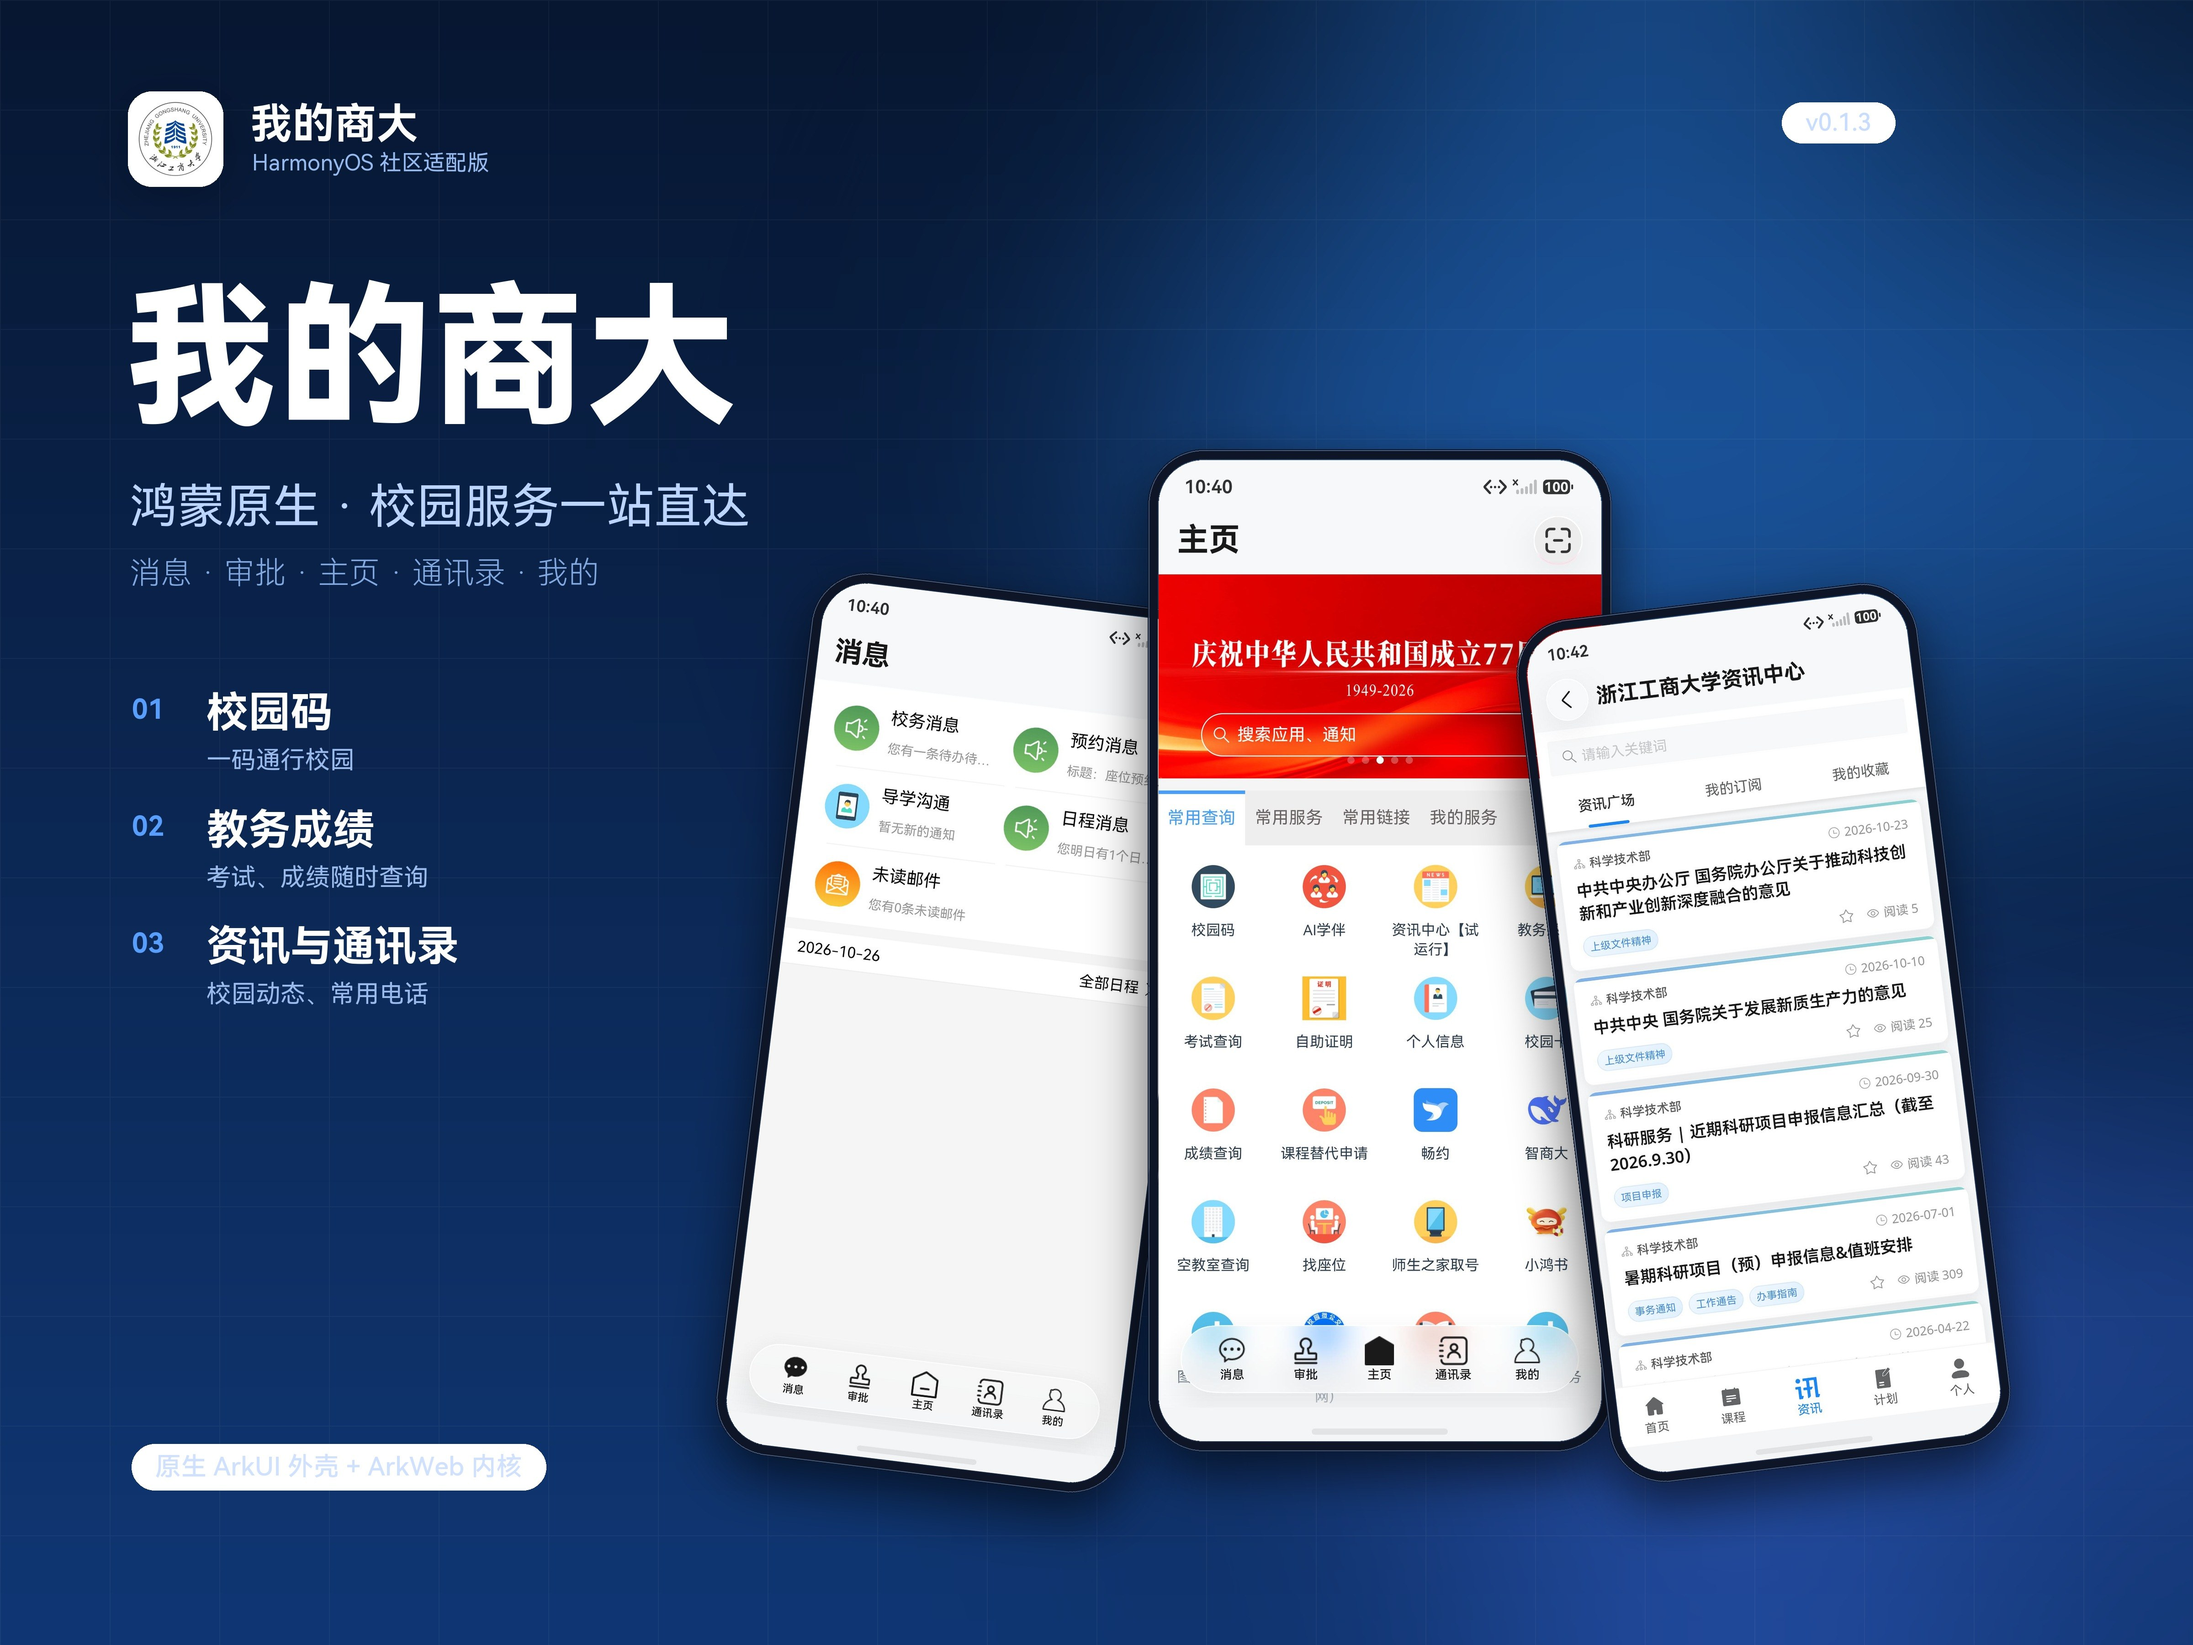
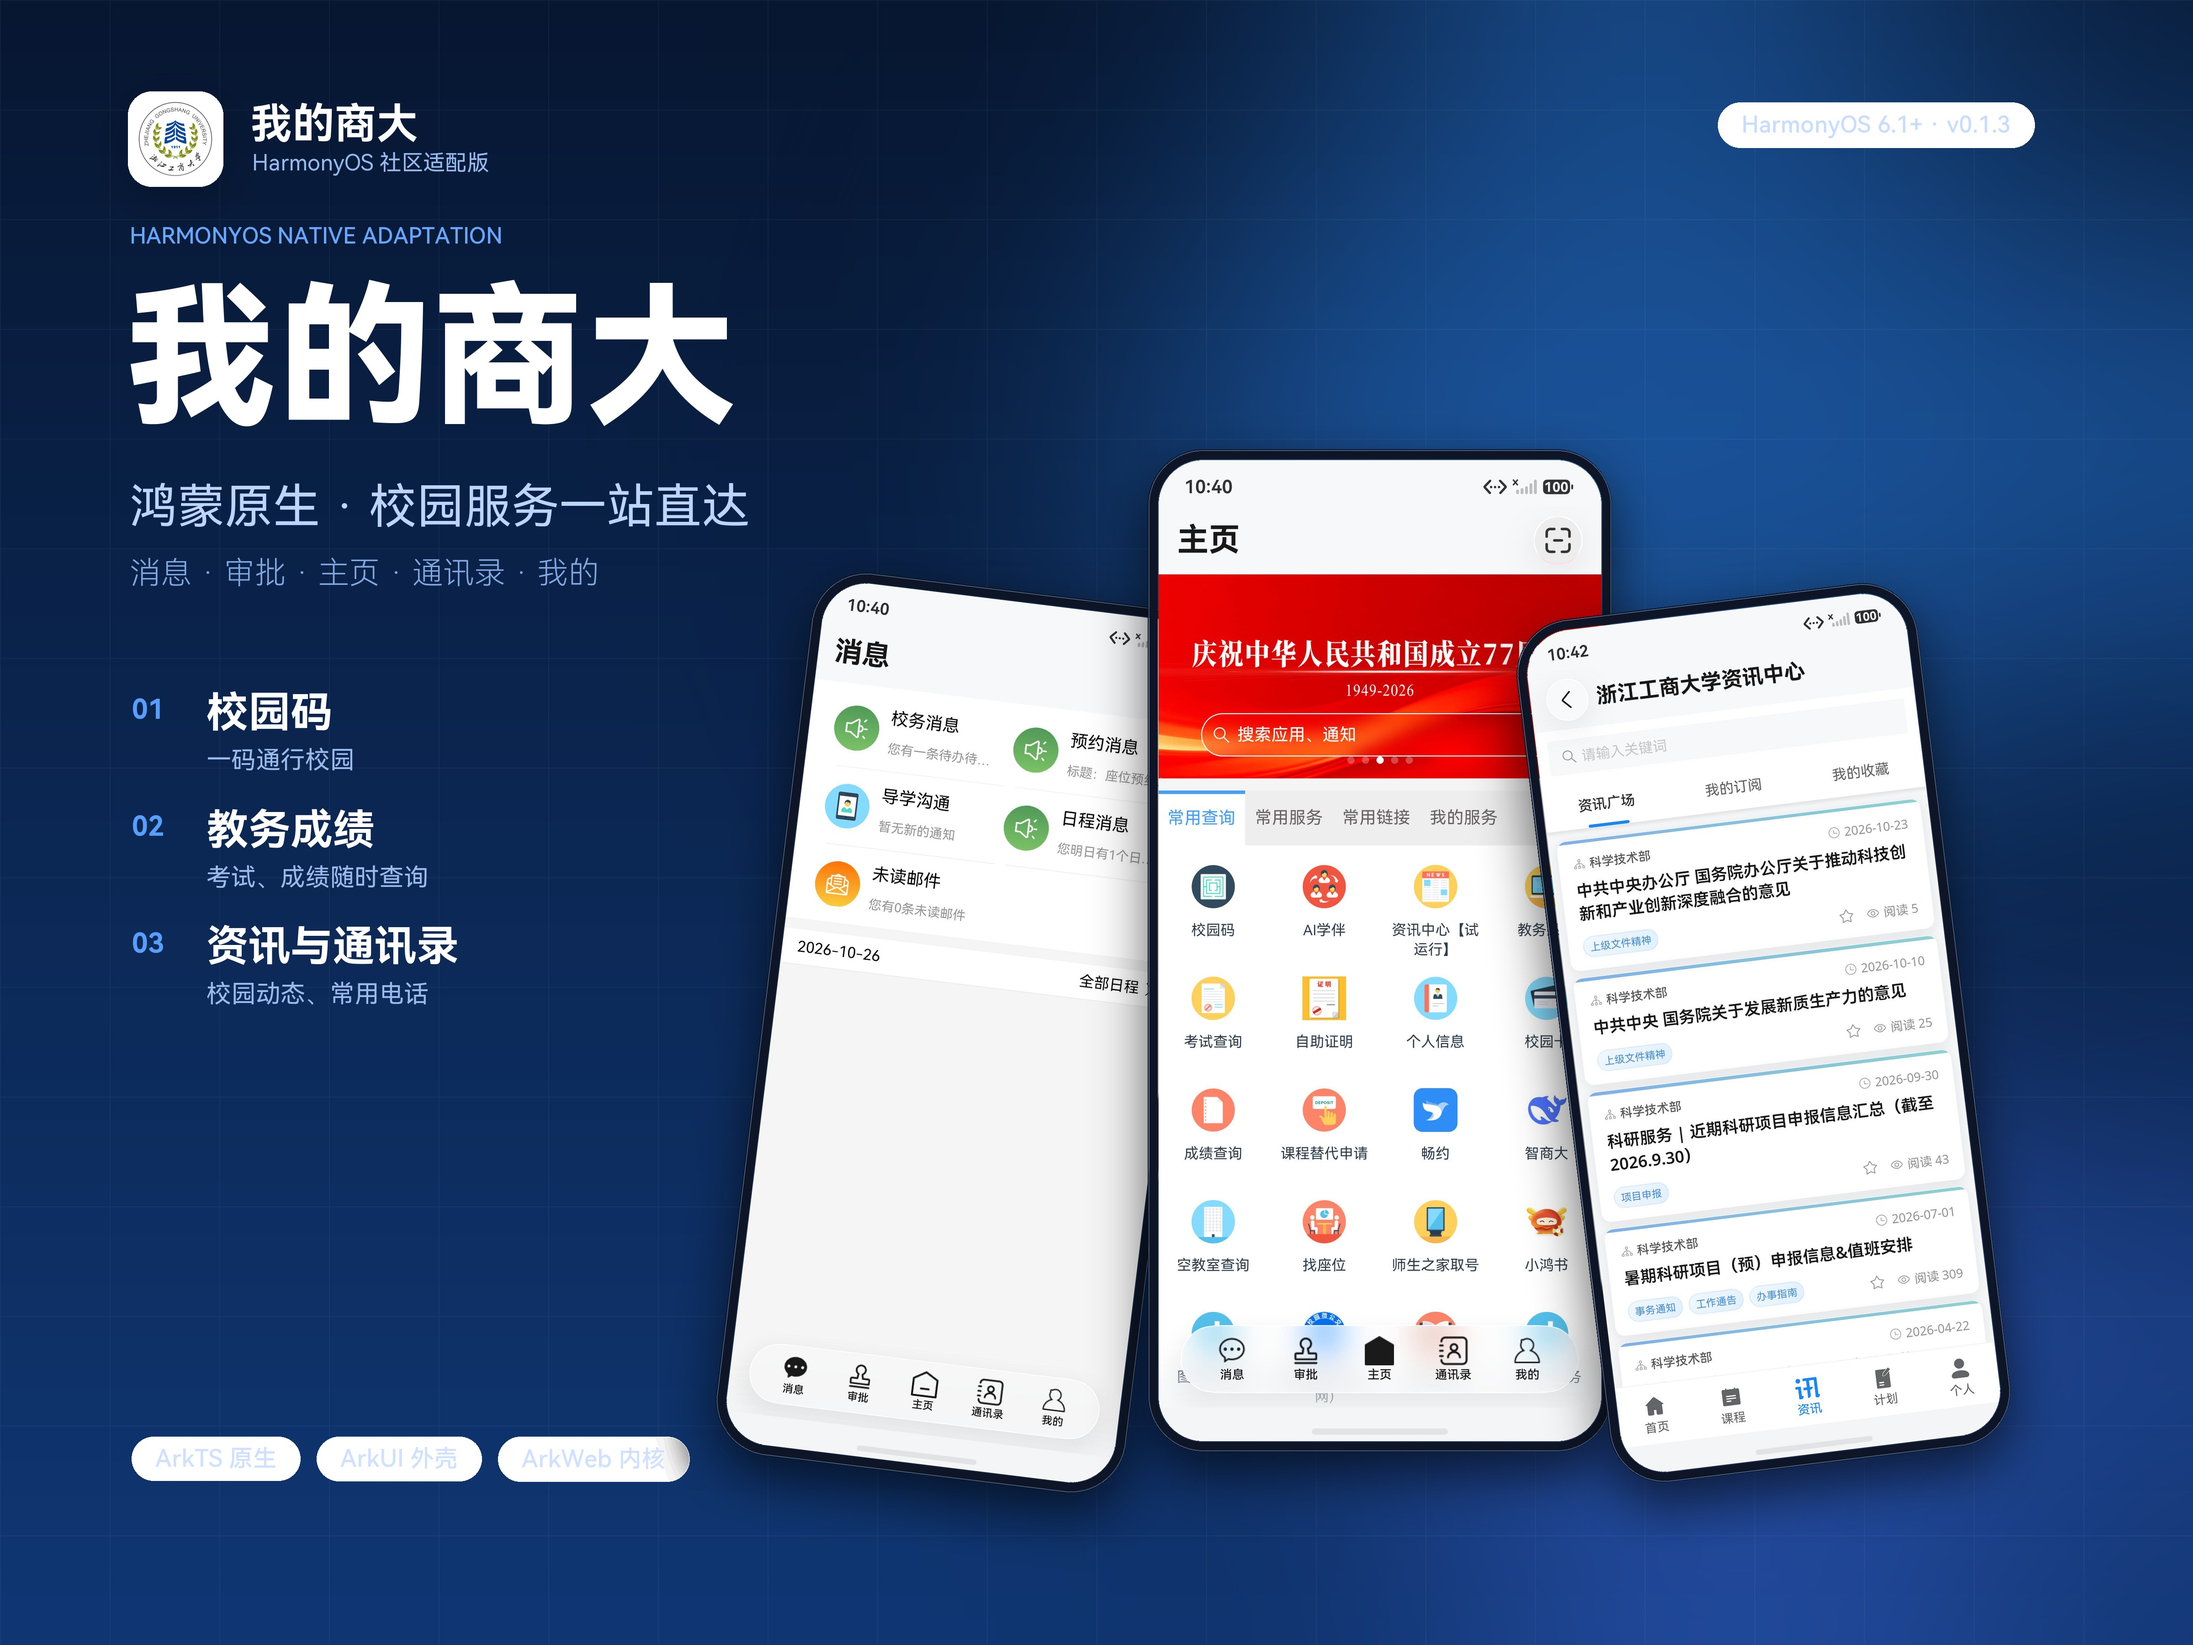
docs: add HarmonyOS adaptation and dual-appearance promo posters

Changed region(s): [[0.0625, 0.8711, 0.3125, 0.9333], [0.7812, 0.0622, 0.9375, 0.0933], [0.0625, 0.1244, 0.2188, 0.1556]]

diff --git a/README.md b/README.md
@@ -45,6 +45,10 @@
 | :---: | :---: | :---: |
 | <img src="docs/promo/promo-features-4x3.jpg" width="280" /> | <img src="docs/promo/promo-offline-4x3.jpg" width="280" /> | <img src="docs/promo/promo-privacy-4x3.jpg" width="280" /> |
 
+| 鸿蒙原生适配 | 原生 / 经典双外观 |
+| :---: | :---: |
+| <img src="docs/promo/promo-harmony-4x3.jpg" width="420" /> | <img src="docs/promo/promo-dual-style-4x3.jpg" width="420" /> |
+
 ## 应用特色
 
 ### 原生外壳，网页内核
